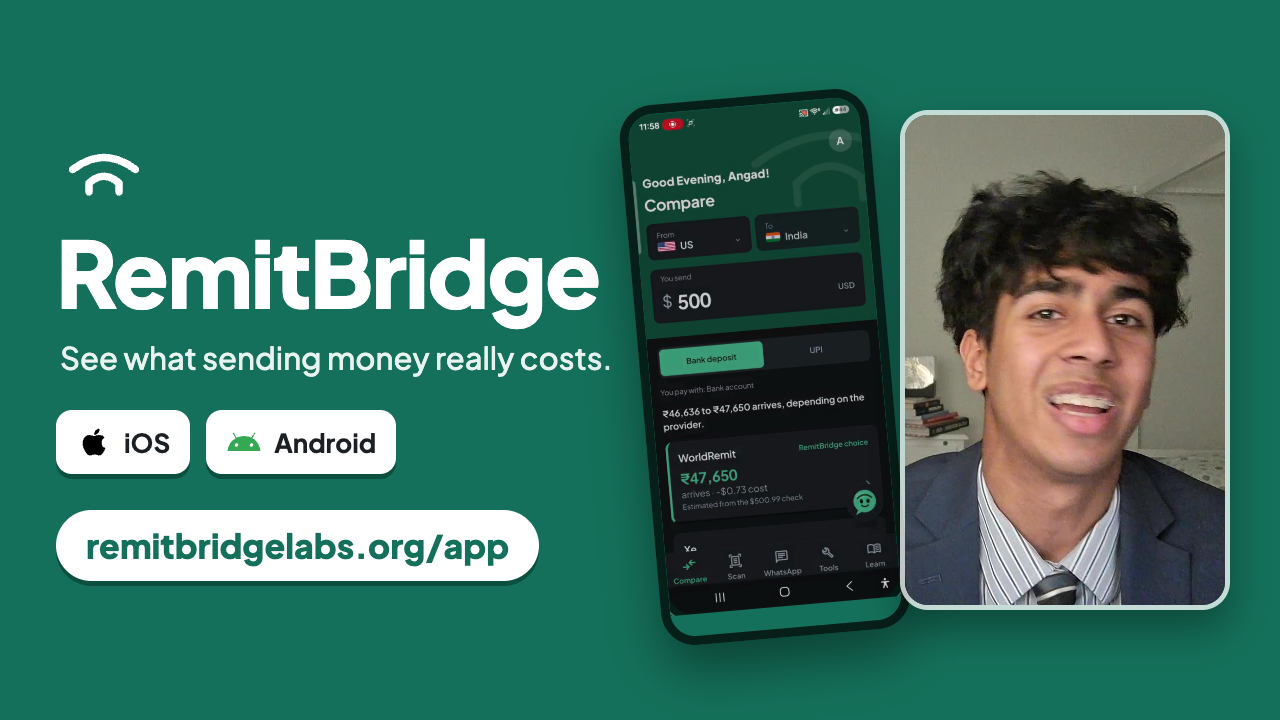
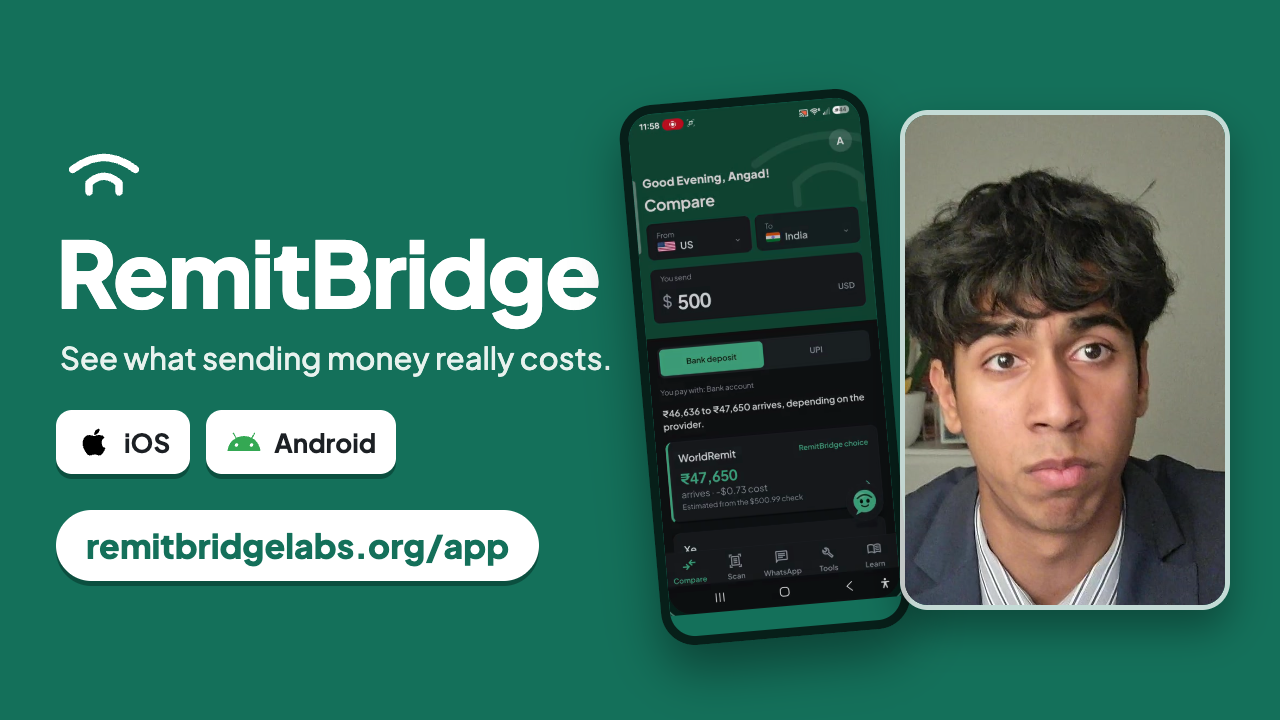
Use a neutral frame of Angad on the CAC thumbnail
He found the smiling frame's expression awkward, and no frame in the footage has a
natural smile toward the camera, so for now the thumbnail uses the calmest
closed-mouth frame, from the end of the closing. A photo taken for it can replace it.

Changed region(s): [[0.6875, 0.2139, 0.9688, 0.8556]]

diff --git a/docs/cac/youtube-description.md b/docs/cac/youtube-description.md
@@ -1,6 +1,6 @@
 # CAC video: YouTube title, description and thumbnail
 
-Thumbnail: `youtube-thumbnail.png` (1280x720): the video's end card with the Compare screen in a phone and Angad smiling, also in Downloads as
+Thumbnail: `youtube-thumbnail.png` (1280x720): the video's end card with the Compare screen in a phone and a neutral frame of Angad (a smiling photo can replace it later), also in Downloads as
 "RemitBridge CAC thumbnail.png".
 
 ## Title
